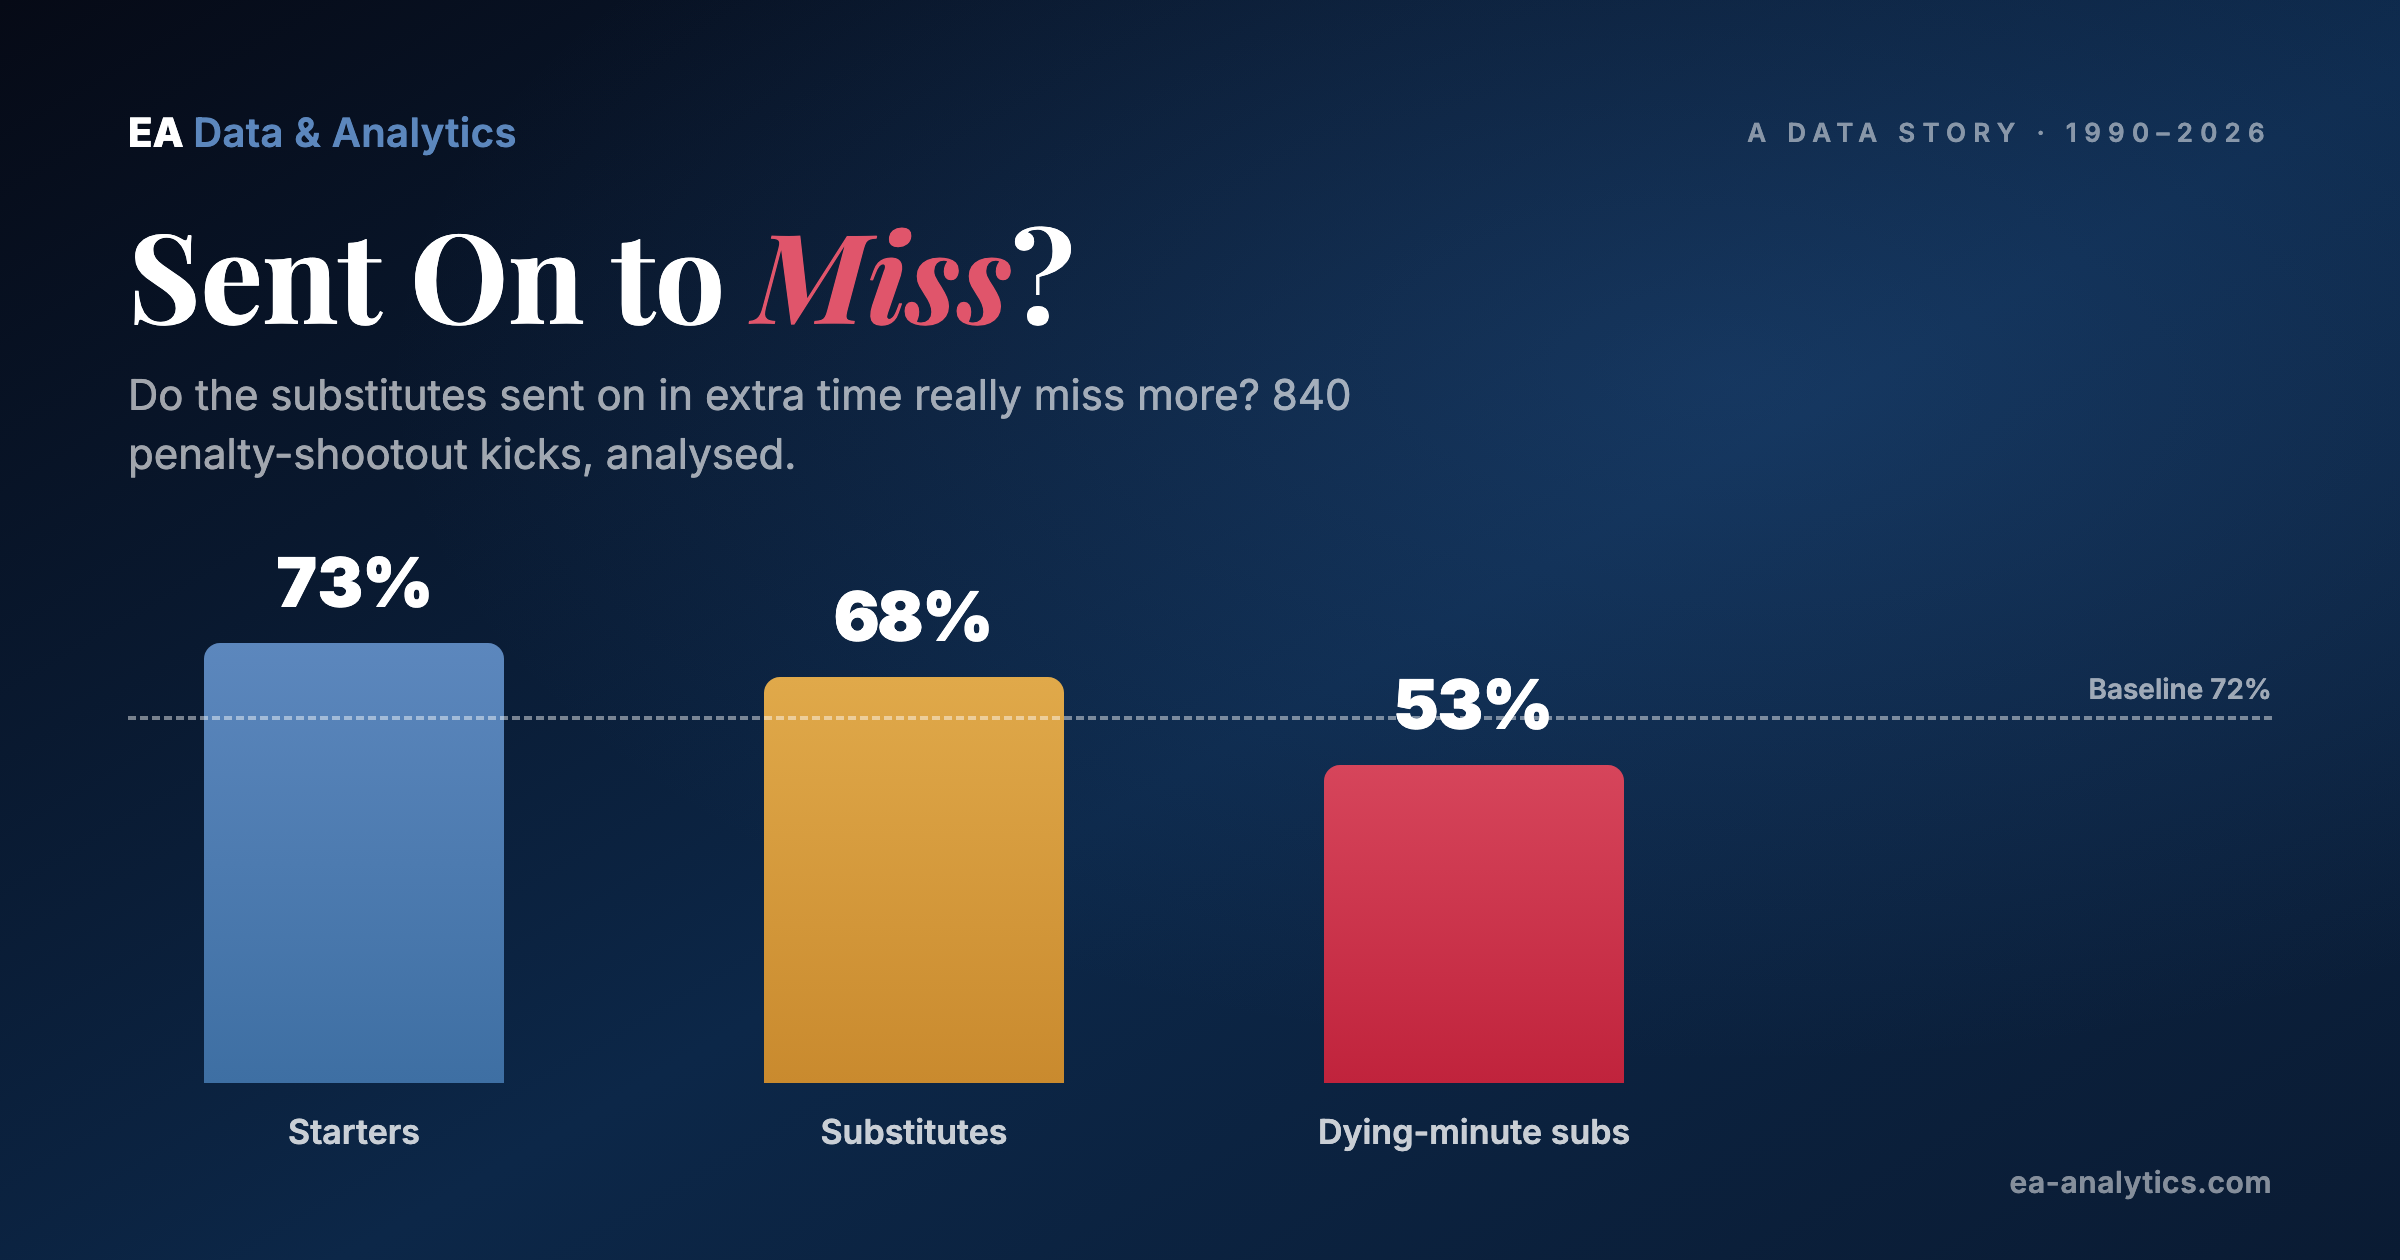
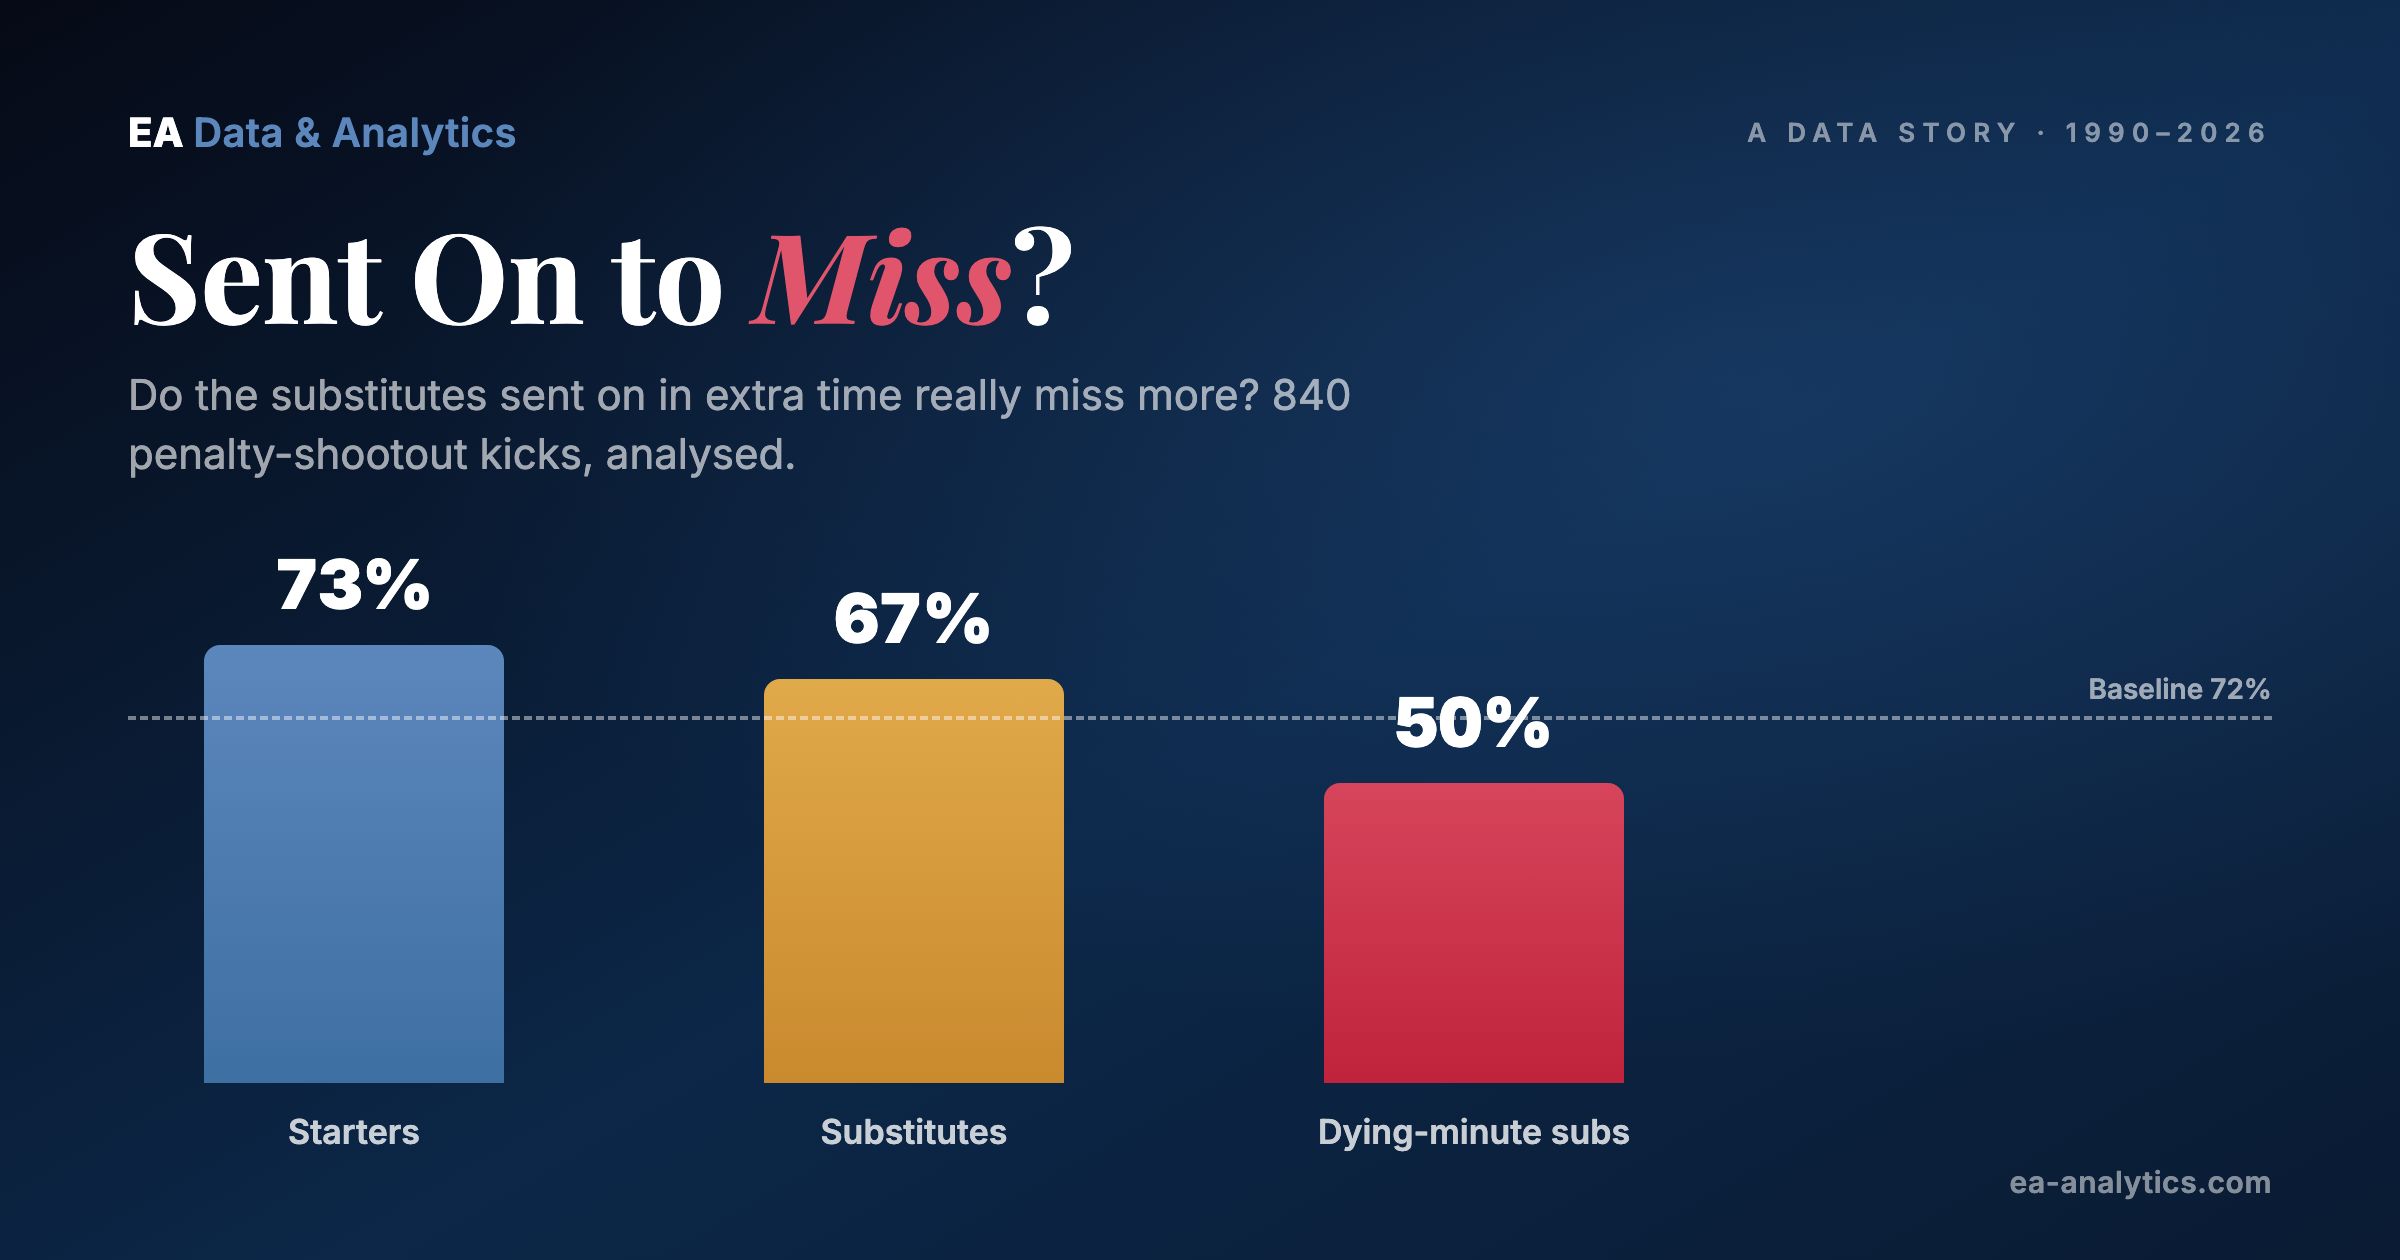
Include live WC 2026 shootouts (lineups from match reports)
Adds the 2026 Round-of-32 shootouts (NED-MOR, GER-PAR) with substitute
status sourced from match reports: three extra-time subs (Kluivert 113',
Balbuena 120' missed; Amiri 110' scored). Extra-time subs now significant
two-sided. Regenerates the share image.

Changed region(s): [[0.5312, 0.5262, 0.6875, 0.619], [0.3438, 0.4643, 0.4062, 0.5262], [0.125, 0.4333, 0.1875, 0.4643]]

diff --git a/blog/penalty-shootout-substitutes.html b/blog/penalty-shootout-substitutes.html
@@ -162,8 +162,8 @@ footer a { color: var(--gold-dk); text-decoration: none; }
   <p class="hero-sub">Managers gamble on fresh legs for the shootout. Across 35 years of penalties, does the substitute gamble actually backfire?</p>
   <div class="hero-stats">
     <div class="hero-stat"><div class="hero-stat-n">72.0%</div><div class="hero-stat-l">baseline conversion (all kicks)</div></div>
-    <div class="hero-stat"><div class="hero-stat-n">59.4%</div><div class="hero-stat-l">extra-time substitutes (105'+)</div></div>
-    <div class="hero-stat"><div class="hero-stat-n">52.9%</div><div class="hero-stat-l">dying-minutes subs (110'+)</div></div>
+    <div class="hero-stat"><div class="hero-stat-n">57.1%</div><div class="hero-stat-l">extra-time substitutes (105'+)</div></div>
+    <div class="hero-stat"><div class="hero-stat-n">50.0%</div><div class="hero-stat-l">dying-minutes subs (110'+)</div></div>
   </div>
   <div class="hero-scroll">&darr; SCROLL</div>
 </div>
@@ -189,8 +189,8 @@ footer a { color: var(--gold-dk); text-decoration: none; }
   <p>For scale: Lionel Messi, for many the greatest of all time, has converted about <strong>78%</strong> of his career penalties (114 of 147, shootouts aside), barely above this shootout baseline. The spot-kick humbles almost everyone.</p>
   <div class="stat-pair">
     <div class="stat-block"><div class="stat-block-n blue">72.0%</div><div class="stat-block-l">all shootout penalties<br>(840 kicks)</div></div>
-    <div class="stat-block"><div class="stat-block-n">73.3%</div><div class="stat-block-l">taken by a starter<br>(475 kicks)</div></div>
-    <div class="stat-block"><div class="stat-block-n maroon">67.8%</div><div class="stat-block-l">taken by a substitute<br>(258 kicks)</div></div>
+    <div class="stat-block"><div class="stat-block-n">72.8%</div><div class="stat-block-l">taken by a starter<br>(486 kicks)</div></div>
+    <div class="stat-block"><div class="stat-block-n maroon">67.3%</div><div class="stat-block-l">taken by a substitute<br>(269 kicks)</div></div>
   </div>
 </section>
 </div>
@@ -207,7 +207,7 @@ footer a { color: var(--gold-dk); text-decoration: none; }
     <div class="chart-wrapper"><canvas id="chart-headline"></canvas></div>
   </div>
   <div class="container">
-    <p class="table-note">The late groups are subsets of all substitutes and carry small samples (dying-minute subs: n=17), so read them as indicative.</p>
+    <p class="table-note">The late groups are subsets of all substitutes and carry small samples (dying-minute subs: n=20), so read them as indicative.</p>
   </div>
 </section>
 </div>
@@ -229,10 +229,10 @@ footer a { color: var(--gold-dk); text-decoration: none; }
     <div class="data-table-scroll">
       <table class="data-table">
         <thead><tr><th>Role</th><th class="num">Kicks</th><th class="num">Scored</th><th class="num">Conversion</th><th class="num">95% CI</th></tr></thead>
-        <tbody><tr><td>Starter</td><td class='num'>475</td><td class='num'>348</td><td class='num'><strong>73.3%</strong></td><td class='num'>69.1%–77.0%</td></tr><tr><td>Sub before 90'</td><td class='num'>196</td><td class='num'>133</td><td class='num'><strong>67.9%</strong></td><td class='num'>61.0%–74.0%</td></tr><tr><td>Sub 90–104'</td><td class='num'>30</td><td class='num'>23</td><td class='num'><strong>76.7%</strong></td><td class='num'>59.1%–88.2%</td></tr><tr><td>Sub in ET (105'+)</td><td class='num'>32</td><td class='num'>19</td><td class='num'><strong>59.4%</strong></td><td class='num'>42.3%–74.5%</td></tr></tbody>
+        <tbody><tr><td>Starter</td><td class='num'>486</td><td class='num'>354</td><td class='num'><strong>72.8%</strong></td><td class='num'>68.7%–76.6%</td></tr><tr><td>Sub before 90'</td><td class='num'>203</td><td class='num'>138</td><td class='num'><strong>68.0%</strong></td><td class='num'>61.3%–74.0%</td></tr><tr><td>Sub 90–104'</td><td class='num'>31</td><td class='num'>23</td><td class='num'><strong>74.2%</strong></td><td class='num'>56.8%–86.3%</td></tr><tr><td>Sub in ET (105'+)</td><td class='num'>35</td><td class='num'>20</td><td class='num'><strong>57.1%</strong></td><td class='num'>40.9%–72.0%</td></tr></tbody>
       </table>
     </div>
-    <p class="table-note">Substitutes whose match lacked published lineup data (the live 2026 fixtures and a few older Copa América matches) are counted in the baseline but excluded from the role split.</p>
+    <p class="table-note">A few older Copa América matches lacked published lineup data; those kicks are counted in the baseline but excluded from the role split. Lineups for the live 2026 fixtures are taken from match reports.</p>
   </div>
 </section>
 </div>
@@ -244,16 +244,16 @@ footer a { color: var(--gold-dk); text-decoration: none; }
 <section class="narrative-section fade-up">
   <div class="section-label">The Finding</div>
   <h2>It's the Extra-Time Sub Who Pays</h2>
-  <p>It is <em>not</em> substitutes in general who falter. Across all subs the gap (<strong>67.8%</strong> vs <strong>73.3%</strong> for starters) is only borderline. The effect concentrates in the players sent on late: <strong>extra-time substitutes convert just 59.4%</strong>, and the dying-minutes specialists brought on at 110'+ manage only <strong>52.9%</strong>.</p>
+  <p>It is <em>not</em> substitutes in general who falter. Across all subs the gap (<strong>67.3%</strong> vs <strong>72.8%</strong> for starters) is only borderline. The effect concentrates in the players sent on late: <strong>extra-time substitutes convert just 57.1%</strong>, and the dying-minutes specialists brought on at 110'+ manage only <strong>50.0%</strong>.</p>
   <p>Because the hypothesis is directional (subs are predicted to do <em>worse</em>, not merely differently), the one-sided test is the relevant one; the stricter two-sided figure is shown too.</p>
   <div class="data-table-scroll">
     <table class="data-table">
       <thead><tr><th>Comparison</th><th class="num">Conversion</th><th class="num">two-sided p</th><th class="num">one-sided p</th><th>Verdict</th></tr></thead>
-      <tbody><tr><td>Starters vs all substitutes</td><td class='num'>73.3% vs 67.8%</td><td class='num'>0.120</td><td class='num'><strong>0.060</strong></td><td>not significant</td></tr><tr><td>Starters vs extra-time subs (≥105')</td><td class='num'>73.3% vs 59.4%</td><td class='num'>0.089</td><td class='num'><strong>0.044</strong></td><td>significant (one-sided)</td></tr><tr><td>Starters vs late subs (≥110', n=17)</td><td class='num'>73.3% vs 52.9%</td><td class='num'>0.065</td><td class='num'><strong>0.033</strong></td><td>significant (one-sided)</td></tr></tbody>
+      <tbody><tr><td>Starters vs all substitutes</td><td class='num'>72.8% vs 67.3%</td><td class='num'>0.108</td><td class='num'><strong>0.054</strong></td><td>not significant</td></tr><tr><td>Starters vs extra-time subs (≥105')</td><td class='num'>72.8% vs 57.1%</td><td class='num'>0.046</td><td class='num'><strong>0.023</strong></td><td>significant</td></tr><tr><td>Starters vs late subs (≥110', n=20)</td><td class='num'>72.8% vs 50.0%</td><td class='num'>0.026</td><td class='num'><strong>0.013</strong></td><td>significant</td></tr></tbody>
     </table>
   </div>
   <div class="callout--maroon callout">
-    <p>A logistic regression agrees: being a substitute multiplies the odds of scoring by <strong>0.77</strong> (95% CI 0.55&ndash;1.07, p = 0.121). A substitute's scoring odds are roughly <strong>23% lower</strong> than a starter's. For comparison, published tournament studies put substitutes near 61% against 74% for starters.</p>
+    <p>A logistic regression agrees: being a substitute multiplies the odds of scoring by <strong>0.77</strong> (95% CI 0.55&ndash;1.06, p = 0.108). A substitute's scoring odds are roughly <strong>23% lower</strong> than a starter's. For comparison, published tournament studies put substitutes near 61% against 74% for starters.</p>
   </div>
 </section>
 </div>
@@ -264,7 +264,7 @@ footer a { color: var(--gold-dk); text-decoration: none; }
   <div class="container">
     <div class="section-label">By Minute of Entry</div>
     <h2>The Extra-Time Arrivals Fare Worst</h2>
-    <p>Grouping substitutes by when they came on, conversion is noisy through normal time, but the players sent on in the final stretch (105&ndash;120') dip clearly below the 73.3% starter line (dashed).</p>
+    <p>Grouping substitutes by when they came on, conversion is noisy through normal time, but the players sent on in the final stretch (105&ndash;120') dip clearly below the 72.8% starter line (dashed).</p>
   </div>
   <div class="container--wide">
     <div class="chart-wrapper"><canvas id="chart-minute"></canvas></div>
@@ -283,11 +283,11 @@ footer a { color: var(--gold-dk); text-decoration: none; }
 <section class="narrative-section fade-up">
   <div class="section-label">The Specialists</div>
   <h2>Every Extra-Time Sub Who Took One</h2>
-  <p>The closest cases to the hypothesis: players introduced in extra time (105'+), often with the shootout in mind. As a group they scored <strong>19 of 32</strong> (59.4%).</p>
+  <p>The closest cases to the hypothesis: players introduced in extra time (105'+), often with the shootout in mind. As a group they scored <strong>20 of 35</strong> (57.1%).</p>
   <div class="data-table-scroll">
     <table class="data-table">
       <thead><tr><th>Player</th><th>Team</th><th>Tournament</th><th class="num">On</th><th>Result</th></tr></thead>
-      <tbody><tr class='miss'><td>Simone Zaza</td><td>Italy</td><td>UEFA Euro 2016</td><td class='num'>120'</td><td>❌ Miss</td></tr><tr class='ok'><td>Paulo Dybala</td><td>Argentina</td><td>FIFA World Cup 2022</td><td class='num'>120'</td><td>✅ Scored</td></tr><tr class='miss'><td>Badr Banoun</td><td>Morocco</td><td>FIFA World Cup 2022</td><td class='num'>119'</td><td>❌ Saved</td></tr><tr class='miss'><td>Marcus Rashford</td><td>England</td><td>UEFA Euro 2020</td><td class='num'>119'</td><td>❌ Post</td></tr><tr class='miss'><td>Jadon Sancho</td><td>England</td><td>UEFA Euro 2020</td><td class='num'>119'</td><td>❌ Saved</td></tr><tr class='miss'><td>Jamie Carragher</td><td>England</td><td>FIFA World Cup 2006</td><td class='num'>119'</td><td>❌ Miss</td></tr><tr class='miss'><td>Rodri</td><td>Spain</td><td>UEFA Euro 2020</td><td class='num'>118'</td><td>❌ Saved</td></tr><tr class='ok'><td>Thomas Strunz</td><td>Germany</td><td>UEFA Euro 1996</td><td class='num'>118'</td><td>✅ Scored</td></tr><tr class='miss'><td>Pablo Sarabia</td><td>Spain</td><td>FIFA World Cup 2022</td><td class='num'>117'</td><td>❌ Post</td></tr><tr class='ok'><td>Zeki Amdouni</td><td>Switzerland</td><td>UEFA Euro 2024</td><td class='num'>117'</td><td>✅ Scored</td></tr><tr class='ok'><td>Trent Alexander-Arnold</td><td>England</td><td>UEFA Euro 2024</td><td class='num'>114'</td><td>✅ Scored</td></tr><tr class='ok'><td>Mislav Oršić</td><td>Croatia</td><td>FIFA World Cup 2022</td><td class='num'>113'</td><td>✅ Scored</td></tr><tr class='miss'><td>Elano</td><td>Brazil</td><td>Copa América 2011</td><td class='num'>112'</td><td>❌ Miss</td></tr><tr class='ok'><td>Marcus Rashford</td><td>England</td><td>FIFA World Cup 2018</td><td class='num'>112'</td><td>✅ Scored</td></tr><tr class='ok'><td>Artem Milevskyi</td><td>Ukraine</td><td>FIFA World Cup 2006</td><td class='num'>111'</td><td>✅ Scored</td></tr><tr class='ok'><td>Marcus Thuram</td><td>France</td><td>UEFA Euro 2020</td><td class='num'>110'</td><td>✅ Scored</td></tr><tr class='ok'><td>Walter Gargano</td><td>Uruguay</td><td>Copa América 2011</td><td class='num'>110'</td><td>✅ Scored</td></tr><tr class='ok'><td>Ivan Toney</td><td>England</td><td>UEFA Euro 2024</td><td class='num'>109'</td><td>✅ Scored</td></tr><tr class='ok'><td>Xherdan Shaqiri</td><td>Switzerland</td><td>UEFA Euro 2024</td><td class='num'>108'</td><td>✅ Scored</td></tr><tr class='ok'><td>Lorenzo Insigne</td><td>Italy</td><td>UEFA Euro 2016</td><td class='num'>108'</td><td>✅ Scored</td></tr><tr class='miss'><td>Milan Badelj</td><td>Croatia</td><td>FIFA World Cup 2018</td><td class='num'>107'</td><td>❌ Saved</td></tr><tr class='ok'><td>Henrik Larsson</td><td>Sweden men's</td><td>FIFA World Cup 1994</td><td class='num'>107'</td><td>✅ Scored</td></tr><tr class='ok'><td>Sylvain Wiltord</td><td>France</td><td>FIFA World Cup 2006</td><td class='num'>107'</td><td>✅ Scored</td></tr><tr class='miss'><td>Willian</td><td>Brazil</td><td>FIFA World Cup 2014</td><td class='num'>106'</td><td>❌ Miss</td></tr><tr class='ok'><td>Federico Bernardeschi</td><td>Italy</td><td>UEFA Euro 2020</td><td class='num'>106'</td><td>✅ Scored</td></tr><tr class='miss'><td>Marko Livaja</td><td>Croatia</td><td>FIFA World Cup 2022</td><td class='num'>105'</td><td>❌ Post</td></tr><tr class='miss'><td>João Félix</td><td>Portugal</td><td>UEFA Euro 2024</td><td class='num'>105'</td><td>❌ Post</td></tr><tr class='miss'><td>Josip Iličić</td><td>Slovenia</td><td>UEFA Euro 2024</td><td class='num'>105'</td><td>❌ Saved</td></tr><tr class='ok'><td>Gonzalo Montiel</td><td>Argentina</td><td>FIFA World Cup 2022</td><td class='num'>105'</td><td>✅ Scored</td></tr><tr class='ok'><td>Lovro Majer</td><td>Croatia</td><td>FIFA World Cup 2022</td><td class='num'>105'</td><td>✅ Scored</td></tr><tr class='ok'><td>Bradley Barcola</td><td>France</td><td>UEFA Euro 2024</td><td class='num'>105'</td><td>✅ Scored</td></tr><tr class='ok'><td>Thiago Alcântara</td><td>Spain</td><td>UEFA Euro 2020</td><td class='num'>105'</td><td>✅ Scored</td></tr></tbody>
+      <tbody><tr class='miss'><td>Fabián Balbuena</td><td>Paraguay</td><td>FIFA World Cup 2026</td><td class='num'>120'</td><td>❌ Miss</td></tr><tr class='miss'><td>Simone Zaza</td><td>Italy</td><td>UEFA Euro 2016</td><td class='num'>120'</td><td>❌ Miss</td></tr><tr class='ok'><td>Paulo Dybala</td><td>Argentina</td><td>FIFA World Cup 2022</td><td class='num'>120'</td><td>✅ Scored</td></tr><tr class='miss'><td>Badr Banoun</td><td>Morocco</td><td>FIFA World Cup 2022</td><td class='num'>119'</td><td>❌ Saved</td></tr><tr class='miss'><td>Marcus Rashford</td><td>England</td><td>UEFA Euro 2020</td><td class='num'>119'</td><td>❌ Post</td></tr><tr class='miss'><td>Jadon Sancho</td><td>England</td><td>UEFA Euro 2020</td><td class='num'>119'</td><td>❌ Saved</td></tr><tr class='miss'><td>Jamie Carragher</td><td>England</td><td>FIFA World Cup 2006</td><td class='num'>119'</td><td>❌ Miss</td></tr><tr class='miss'><td>Rodri</td><td>Spain</td><td>UEFA Euro 2020</td><td class='num'>118'</td><td>❌ Saved</td></tr><tr class='ok'><td>Thomas Strunz</td><td>Germany</td><td>UEFA Euro 1996</td><td class='num'>118'</td><td>✅ Scored</td></tr><tr class='miss'><td>Pablo Sarabia</td><td>Spain</td><td>FIFA World Cup 2022</td><td class='num'>117'</td><td>❌ Post</td></tr><tr class='ok'><td>Zeki Amdouni</td><td>Switzerland</td><td>UEFA Euro 2024</td><td class='num'>117'</td><td>✅ Scored</td></tr><tr class='ok'><td>Trent Alexander-Arnold</td><td>England</td><td>UEFA Euro 2024</td><td class='num'>114'</td><td>✅ Scored</td></tr><tr class='miss'><td>Justin Kluivert</td><td>Netherlands</td><td>FIFA World Cup 2026</td><td class='num'>113'</td><td>❌ Miss</td></tr><tr class='ok'><td>Mislav Oršić</td><td>Croatia</td><td>FIFA World Cup 2022</td><td class='num'>113'</td><td>✅ Scored</td></tr><tr class='miss'><td>Elano</td><td>Brazil</td><td>Copa América 2011</td><td class='num'>112'</td><td>❌ Miss</td></tr><tr class='ok'><td>Marcus Rashford</td><td>England</td><td>FIFA World Cup 2018</td><td class='num'>112'</td><td>✅ Scored</td></tr><tr class='ok'><td>Artem Milevskyi</td><td>Ukraine</td><td>FIFA World Cup 2006</td><td class='num'>111'</td><td>✅ Scored</td></tr><tr class='ok'><td>Marcus Thuram</td><td>France</td><td>UEFA Euro 2020</td><td class='num'>110'</td><td>✅ Scored</td></tr><tr class='ok'><td>Nadiem Amiri</td><td>Germany</td><td>FIFA World Cup 2026</td><td class='num'>110'</td><td>✅ Scored</td></tr><tr class='ok'><td>Walter Gargano</td><td>Uruguay</td><td>Copa América 2011</td><td class='num'>110'</td><td>✅ Scored</td></tr><tr class='ok'><td>Ivan Toney</td><td>England</td><td>UEFA Euro 2024</td><td class='num'>109'</td><td>✅ Scored</td></tr><tr class='ok'><td>Xherdan Shaqiri</td><td>Switzerland</td><td>UEFA Euro 2024</td><td class='num'>108'</td><td>✅ Scored</td></tr><tr class='ok'><td>Lorenzo Insigne</td><td>Italy</td><td>UEFA Euro 2016</td><td class='num'>108'</td><td>✅ Scored</td></tr><tr class='miss'><td>Milan Badelj</td><td>Croatia</td><td>FIFA World Cup 2018</td><td class='num'>107'</td><td>❌ Saved</td></tr><tr class='ok'><td>Henrik Larsson</td><td>Sweden men's</td><td>FIFA World Cup 1994</td><td class='num'>107'</td><td>✅ Scored</td></tr><tr class='ok'><td>Sylvain Wiltord</td><td>France</td><td>FIFA World Cup 2006</td><td class='num'>107'</td><td>✅ Scored</td></tr><tr class='miss'><td>Willian</td><td>Brazil</td><td>FIFA World Cup 2014</td><td class='num'>106'</td><td>❌ Miss</td></tr><tr class='ok'><td>Federico Bernardeschi</td><td>Italy</td><td>UEFA Euro 2020</td><td class='num'>106'</td><td>✅ Scored</td></tr><tr class='miss'><td>Marko Livaja</td><td>Croatia</td><td>FIFA World Cup 2022</td><td class='num'>105'</td><td>❌ Post</td></tr><tr class='miss'><td>João Félix</td><td>Portugal</td><td>UEFA Euro 2024</td><td class='num'>105'</td><td>❌ Post</td></tr><tr class='miss'><td>Josip Iličić</td><td>Slovenia</td><td>UEFA Euro 2024</td><td class='num'>105'</td><td>❌ Saved</td></tr><tr class='ok'><td>Gonzalo Montiel</td><td>Argentina</td><td>FIFA World Cup 2022</td><td class='num'>105'</td><td>✅ Scored</td></tr><tr class='ok'><td>Lovro Majer</td><td>Croatia</td><td>FIFA World Cup 2022</td><td class='num'>105'</td><td>✅ Scored</td></tr><tr class='ok'><td>Bradley Barcola</td><td>France</td><td>UEFA Euro 2024</td><td class='num'>105'</td><td>✅ Scored</td></tr><tr class='ok'><td>Thiago Alcântara</td><td>Spain</td><td>UEFA Euro 2020</td><td class='num'>105'</td><td>✅ Scored</td></tr></tbody>
     </table>
   </div>
 </section>
@@ -338,7 +338,7 @@ footer a { color: var(--gold-dk); text-decoration: none; }
     <div class="meth-inner">
       <p>840 shootout kicks from 88 men's international shootouts (FIFA World Cup, UEFA Euros, Copa América), 1990&ndash;2026. Each taker is classified as a starter or a substitute, with the substitute's minute of entry, by joining the shootout result to the match lineups.</p>
       <p>Two sources. <strong>StatsBomb open data</strong> (event-level data with exact substitution minutes) is the ground truth for recent tournaments. <strong>Wikipedia</strong> knockout-stage pages, which carry both the shootout box and full lineups with substitution minutes, provide the historical coverage. The Wikipedia parser was validated against StatsBomb on the 18 shootouts present in both sources, matching 100% on outcome sequences and substitute counts.</p>
-      <p>Confidence intervals use the Wilson method; group comparisons use a two-proportion z-test (one- and two-sided) supported by a logistic regression. Live 2026 fixtures and a handful of older Copa América matches lacked published lineups; those kicks count toward the baseline but are excluded from the starter-vs-substitute split. The 2026 World Cup is ongoing, so figures are a snapshot.</p>
+      <p>Confidence intervals use the Wilson method; group comparisons use a two-proportion z-test (one- and two-sided) supported by a logistic regression. Lineups for the live 2026 fixtures were taken from published match reports; a handful of older Copa América matches still lacked lineup data and are counted in the baseline but excluded from the starter-vs-substitute split. The 2026 World Cup is ongoing, so figures are a snapshot.</p>
     </div>
   </details>
 
@@ -355,7 +355,7 @@ footer a { color: var(--gold-dk); text-decoration: none; }
 </footer>
 
 <script>
-var D = {"baseline": 72.0, "starter_p": 73.3, "headline": {"labels": ["Starters", "Substitutes", "Dying-minute subs (110'+)"], "values": [73.3, 67.8, 52.9], "counts": [475, 258, 17]}, "roles": {"labels": ["Starter", "Sub before 90'", "Sub 90\u2013104'", "Sub in ET (105'+)"], "values": [73.3, 67.9, 76.7, 59.4], "counts": [475, 196, 30, 32]}, "minute": {"labels": ["<60'", "60\u201374'", "75\u201389'", "90\u2013104'", "105\u2013120'"], "values": [76.9, 62.8, 68.4, 76.7, 59.4], "counts": [39, 78, 79, 30, 32]}};
+var D = {"baseline": 72.0, "starter_p": 72.8, "headline": {"labels": ["Starters", "Substitutes", "Dying-minute subs (110'+)"], "values": [72.8, 67.3, 50.0], "counts": [486, 269, 20]}, "roles": {"labels": ["Starter", "Sub before 90'", "Sub 90\u2013104'", "Sub in ET (105'+)"], "values": [72.8, 68.0, 74.2, 57.1], "counts": [486, 203, 31, 35]}, "minute": {"labels": ["<60'", "60\u201374'", "75\u201389'", "90\u2013104'", "105\u2013120'"], "values": [77.5, 63.7, 67.5, 74.2, 57.1], "counts": [40, 80, 83, 31, 35]}};
 var MAROON = '#B81D3A', GOLD = '#1E5FA8', GOLD_DK = '#15457C', GREEN = '#157A48',
     RED = '#C8102E', NAVY = '#12263F', SLATE = '#475569', MUTED = '#8A8A95';
 Chart.defaults.font.family = "'Inter', -apple-system, sans-serif";